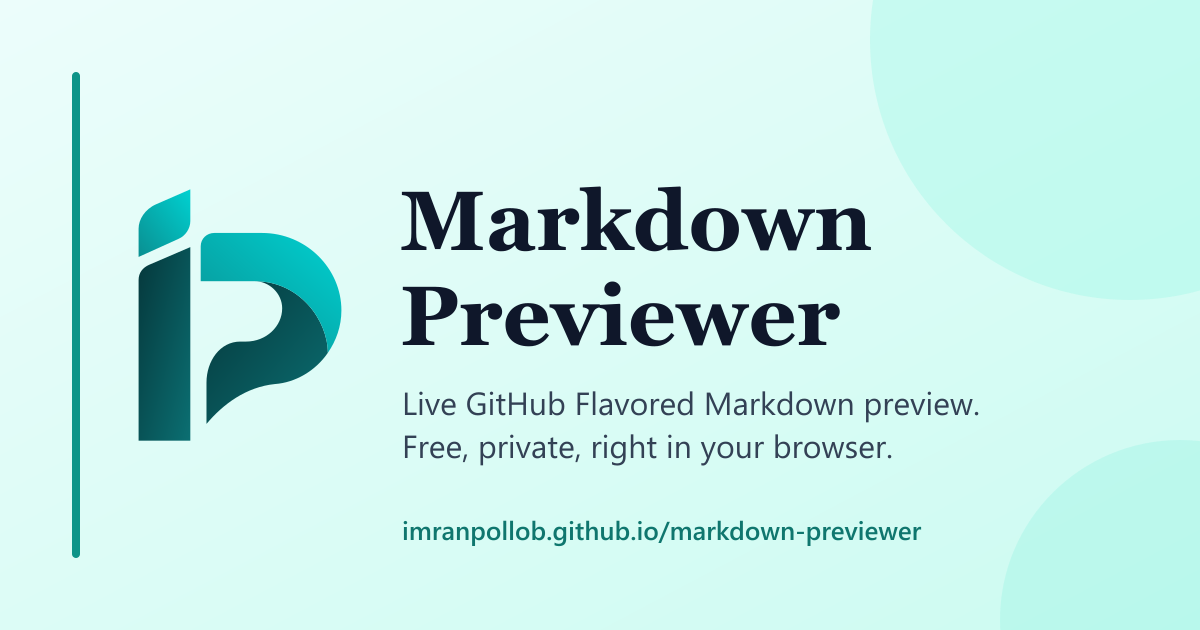
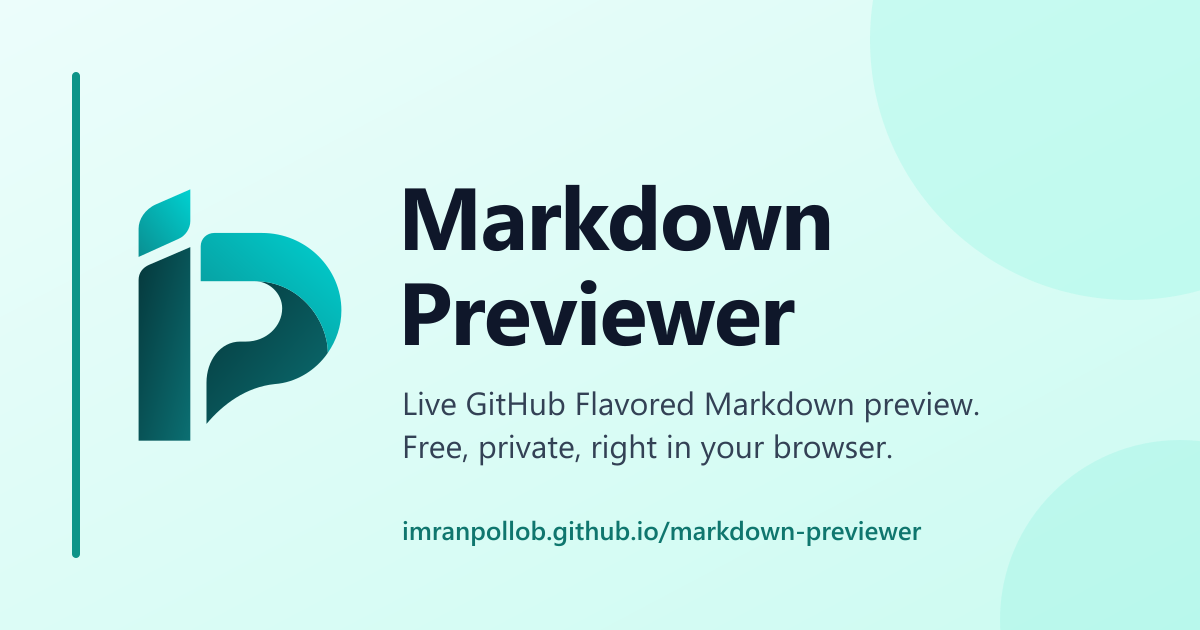
fixed font

Changed region(s): [[0.3392, 0.2714, 0.74, 0.4222], [0.3392, 0.4524, 0.7092, 0.573]]

diff --git a/index.html b/index.html
@@ -299,10 +299,12 @@
     </section>
 
     <footer class="site-footer">
-      <p>
-        Made by <a href="__AUTHOR_URL__">__AUTHOR_NAME__</a> ·
-        <a href="__REPO_URL__">Source on GitHub</a>
-      </p>
+      <p>Built by <a href="__AUTHOR_URL__">__AUTHOR_NAME__</a></p>
+      <a class="github-link" href="__REPO_URL__" aria-label="Source code on GitHub" title="Source code on GitHub">
+        <svg xmlns="http://www.w3.org/2000/svg" viewBox="0 0 16 16" fill="currentColor" aria-hidden="true" focusable="false">
+          <path d="M8 0c4.42 0 8 3.58 8 8a8.013 8.013 0 0 1-5.45 7.59c-.4.08-.55-.17-.55-.38 0-.27.01-1.13.01-2.2 0-.75-.25-1.23-.54-1.48 1.78-.2 3.65-.88 3.65-3.95 0-.88-.31-1.59-.82-2.15.08-.2.36-1.02-.08-2.12 0 0-.67-.22-2.2.82-.64-.18-1.32-.27-2-.27-.68 0-1.36.09-2 .27-1.53-1.03-2.2-.82-2.2-.82-.44 1.1-.16 1.92-.08 2.12-.51.56-.82 1.28-.82 2.15 0 3.06 1.86 3.75 3.64 3.95-.23.2-.44.55-.51 1.07-.46.21-1.61.55-2.33-.66-.15-.24-.6-.83-1.23-.82-.67.01-.27.38.01.53.34.19.73.9.82 1.13.16.45.68 1.31 2.69.94 0 .67.01 1.3.01 1.49 0 .21-.15.45-.55.38A7.995 7.995 0 0 1 0 8c0-4.42 3.58-8 8-8Z"/>
+        </svg>
+      </a>
     </footer>
 
     <input type="file" id="file-input" accept=".md,.markdown,.mdown,.mkd,.mkdn,.mdx,.txt,text/markdown,text/plain" hidden />

diff --git a/src/styles/app.css b/src/styles/app.css
@@ -550,13 +550,31 @@ kbd {
 .faq details p { margin: 0; padding: 0 18px 16px; color: var(--color-text-muted); }
 
 .site-footer {
-  padding: 28px var(--gutter);
+  display: flex;
+  align-items: center;
+  justify-content: space-between;
+  gap: 16px;
+  min-height: 52px;
+  padding: 8px var(--gutter);
   font-size: var(--font-size-sm);
   color: var(--color-text-muted);
-  text-align: center;
   border-top: 1px solid var(--color-border);
 }
-.site-footer p { margin: 0; }
+.site-footer p { margin: 0; white-space: nowrap; }
+.site-footer p a { font-weight: var(--font-weight-semibold); text-decoration: none; }
+.site-footer p a:hover { text-decoration: underline; }
+
+.github-link {
+  display: grid;
+  place-items: center;
+  width: 36px;
+  height: 36px;
+  color: var(--color-text-muted);
+  border-radius: var(--radius);
+  transition: color 120ms, background-color 120ms;
+}
+.github-link:hover { color: var(--color-text); background: var(--tint); }
+.github-link svg { width: 22px; height: 22px; }
 
 /* ---------- Responsive ---------- */
 

diff --git a/vite.config.ts b/vite.config.ts
@@ -41,13 +41,18 @@ function seo(): Plugin {
   };
 }
 
-export default defineConfig({
-  base: new URL(SITE_URL).pathname,
+export default defineConfig(({ command, isPreview }) => ({
+  // Dev server runs at http://localhost:5173/; builds (and `vite preview` of them)
+  // live under the GitHub Pages project path (/markdown-previewer/).
+  base: command === 'serve' && !isPreview ? '/' : new URL(SITE_URL).pathname,
   plugins: [seo()],
+  server: {
+    port: 5173,
+  },
   build: {
     target: 'es2022',
   },
   test: {
     environment: 'jsdom',
   },
-});
+}));

diff --git a/src/main.ts b/src/main.ts
@@ -3,7 +3,7 @@ import '@fontsource/plus-jakarta-sans/400-italic.css';
 import '@fontsource/plus-jakarta-sans/500.css';
 import '@fontsource/plus-jakarta-sans/600.css';
 import '@fontsource/plus-jakarta-sans/700.css';
-import '@fontsource/playfair-display/700.css';
+import '@fontsource/outfit/700.css';
 import './styles/brand.css';
 import './styles/app.css';
 import './styles/markdown.css';

diff --git a/src/styles/brand.css b/src/styles/brand.css
@@ -30,7 +30,7 @@
 
   /* Typography */
   --font-family: 'Plus Jakarta Sans', system-ui, -apple-system, sans-serif;
-  --font-heading: 'Playfair Display', Georgia, serif;
+  --font-heading: 'Outfit', system-ui, -apple-system, sans-serif;
   --font-mono: 'SFMono-Regular', Consolas, 'JetBrains Mono', monospace;
   --base-font-size: 16px;
   --font-size-nav: 0.875rem;

diff --git a/README.md b/README.md
@@ -28,9 +28,10 @@ All rendered HTML (typed, pasted or uploaded) is parsed with markdown-it first a
 
 ```bash
 npm install
-npm run dev      # http://localhost:5173/markdown-previewer/
+npm run dev      # http://localhost:5173/
 npm test         # unit tests (Vitest + jsdom)
-npm run build    # type-check + production build into dist/
+npm run build    # type-check + production build into dist/ (base path /markdown-previewer/)
+npm run preview  # serve the production build at http://localhost:4173/markdown-previewer/
 npm run icons    # regenerate PNG icons + og-image.png from public/favicon.svg
 ```
 
